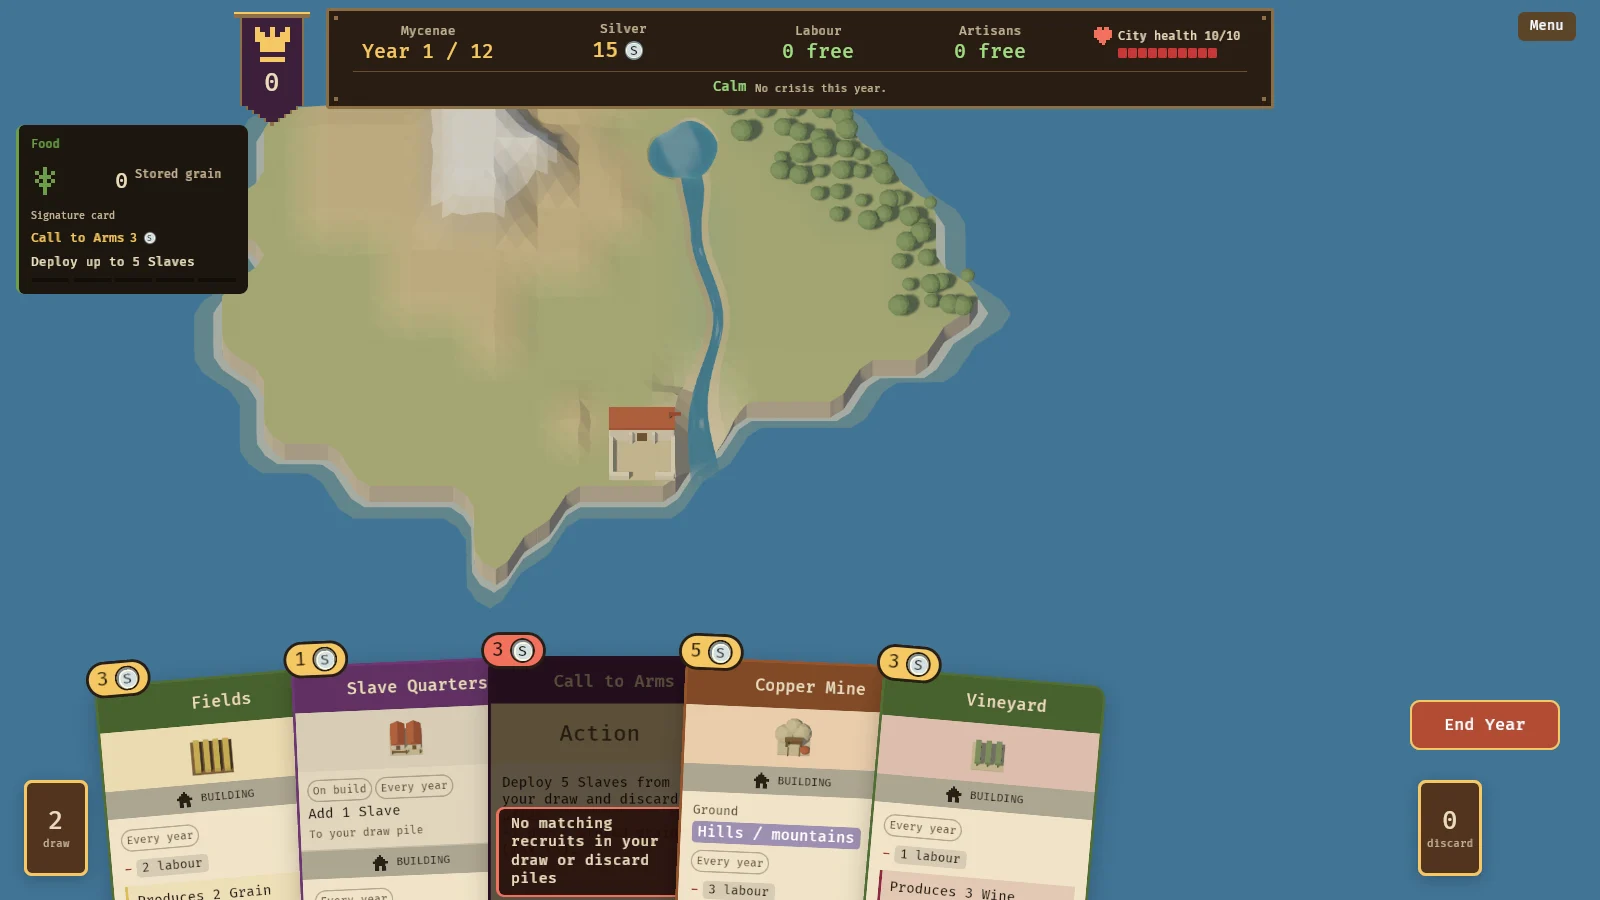
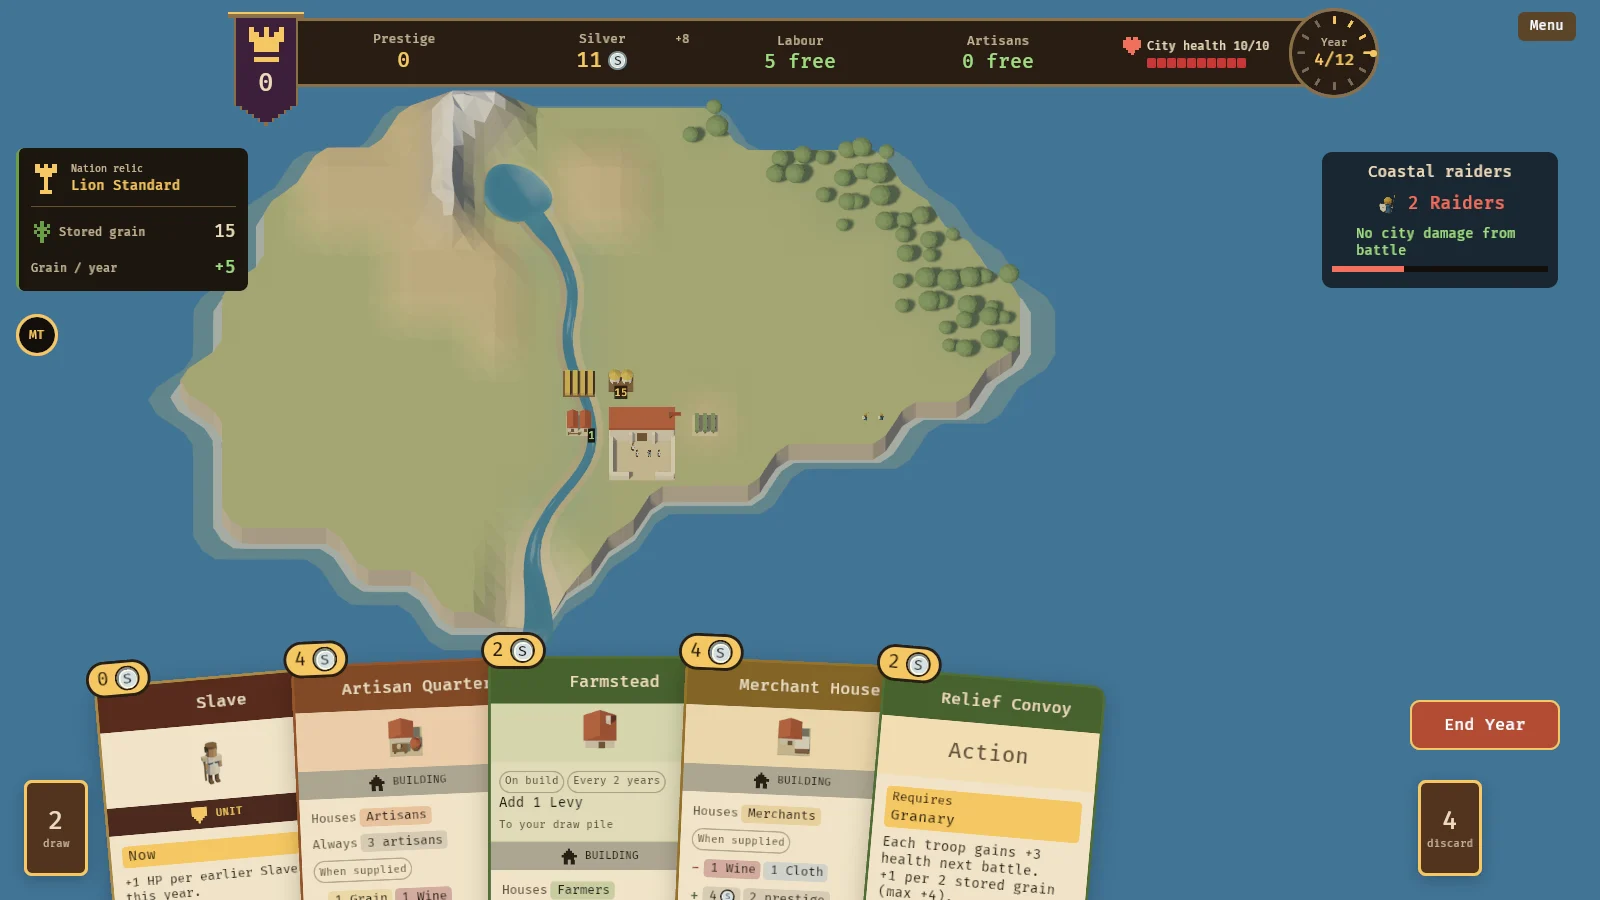
feat: refresh crowns adrift images

Changed region(s): [[0.0, 0.0, 0.875, 1.0], [0.8125, 0.1556, 1.0, 0.3422], [0.0, 0.3422, 0.0312, 0.4044]]

diff --git a/ASSETS.md b/ASSETS.md
@@ -12,10 +12,13 @@ copies live under `static/`; project images live in `static/images/`.
 
 | Image                       | Source                                                    |
 | --------------------------- | --------------------------------------------------------- |
-| `crowns-adrift-island.webp` | `../tribute/docs/art-study-board.png`                     |
-| `crowns-adrift-detail.webp` | `../tribute/docs/art-study-zoom.png`                      |
+| `crowns-adrift-island.webp` | Current client, seed 1, `build 3` capture                 |
+| `crowns-adrift-detail.webp` | Current client, seed 1, `city 7` capture                  |
 | `cold-orbit-flight.webp`    | `../space-game/assets/contrast-lighting-burn-preview.png` |
 | `spice-cad-editor.webp`     | `../spice-rack/docs/images/workspace.png`                 |
+
+Crowns captures use `../tribute/scripts/shot.sh` at revision `1f29de6`. The
+detail is a `1600x900+550+500` crop of a 3200 × 1800 capture.
 
 Crowns illustrations use lossless WebP conversions from
 `../tribute/crates/client/assets/`: `buildings/{fields,granary,foundry}.png` and
